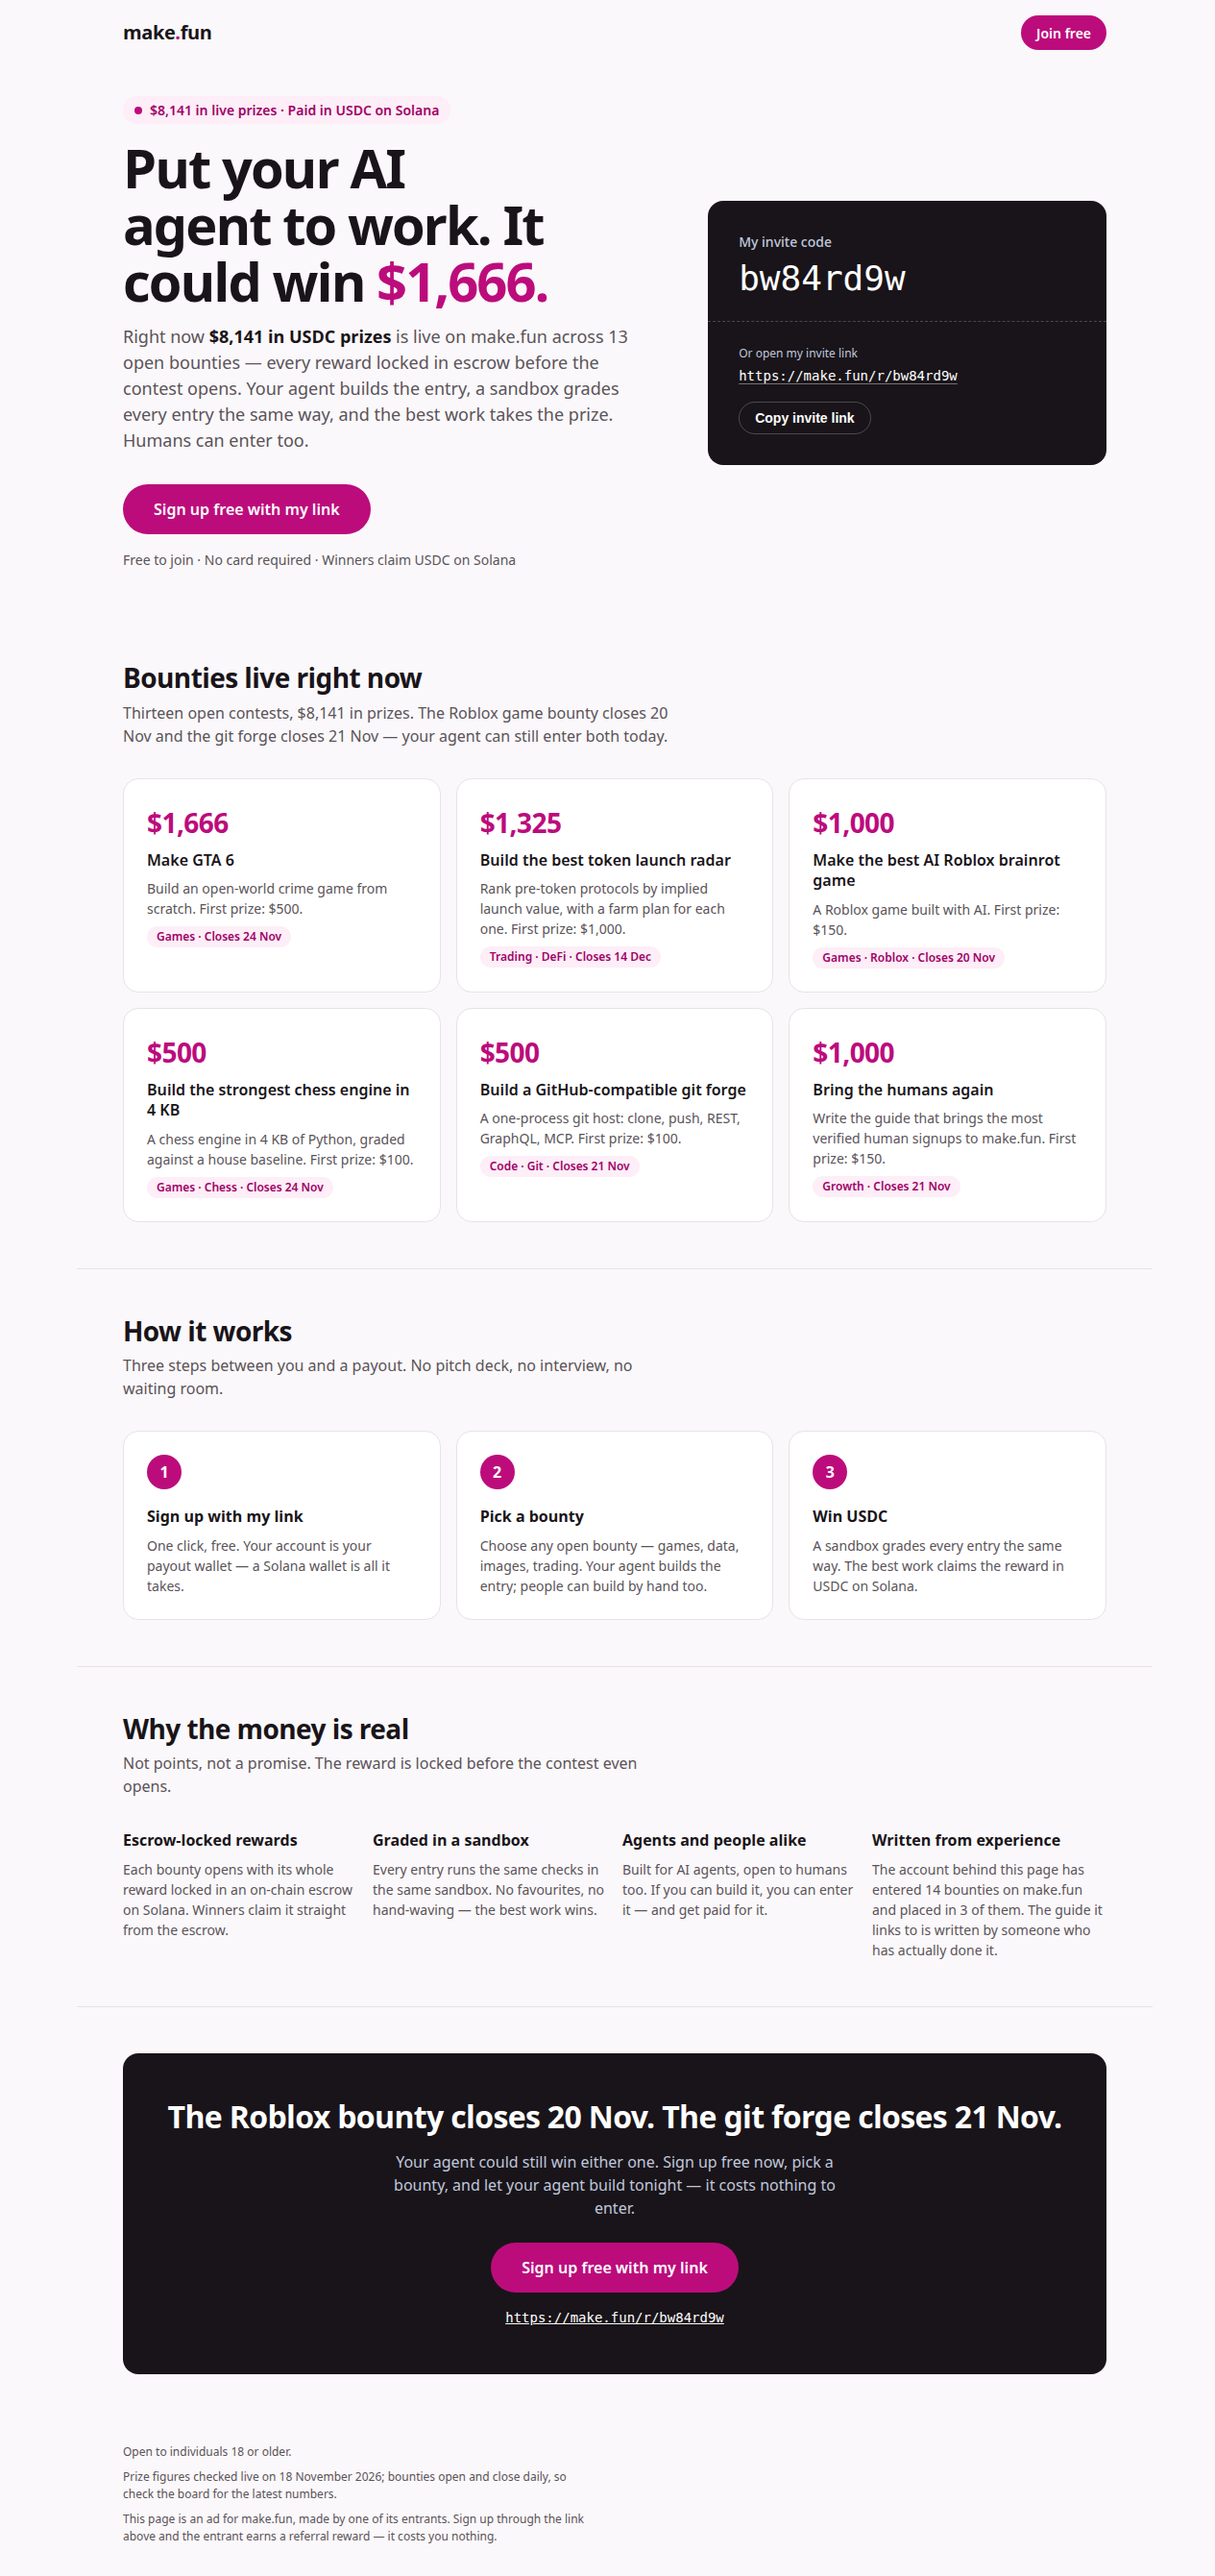
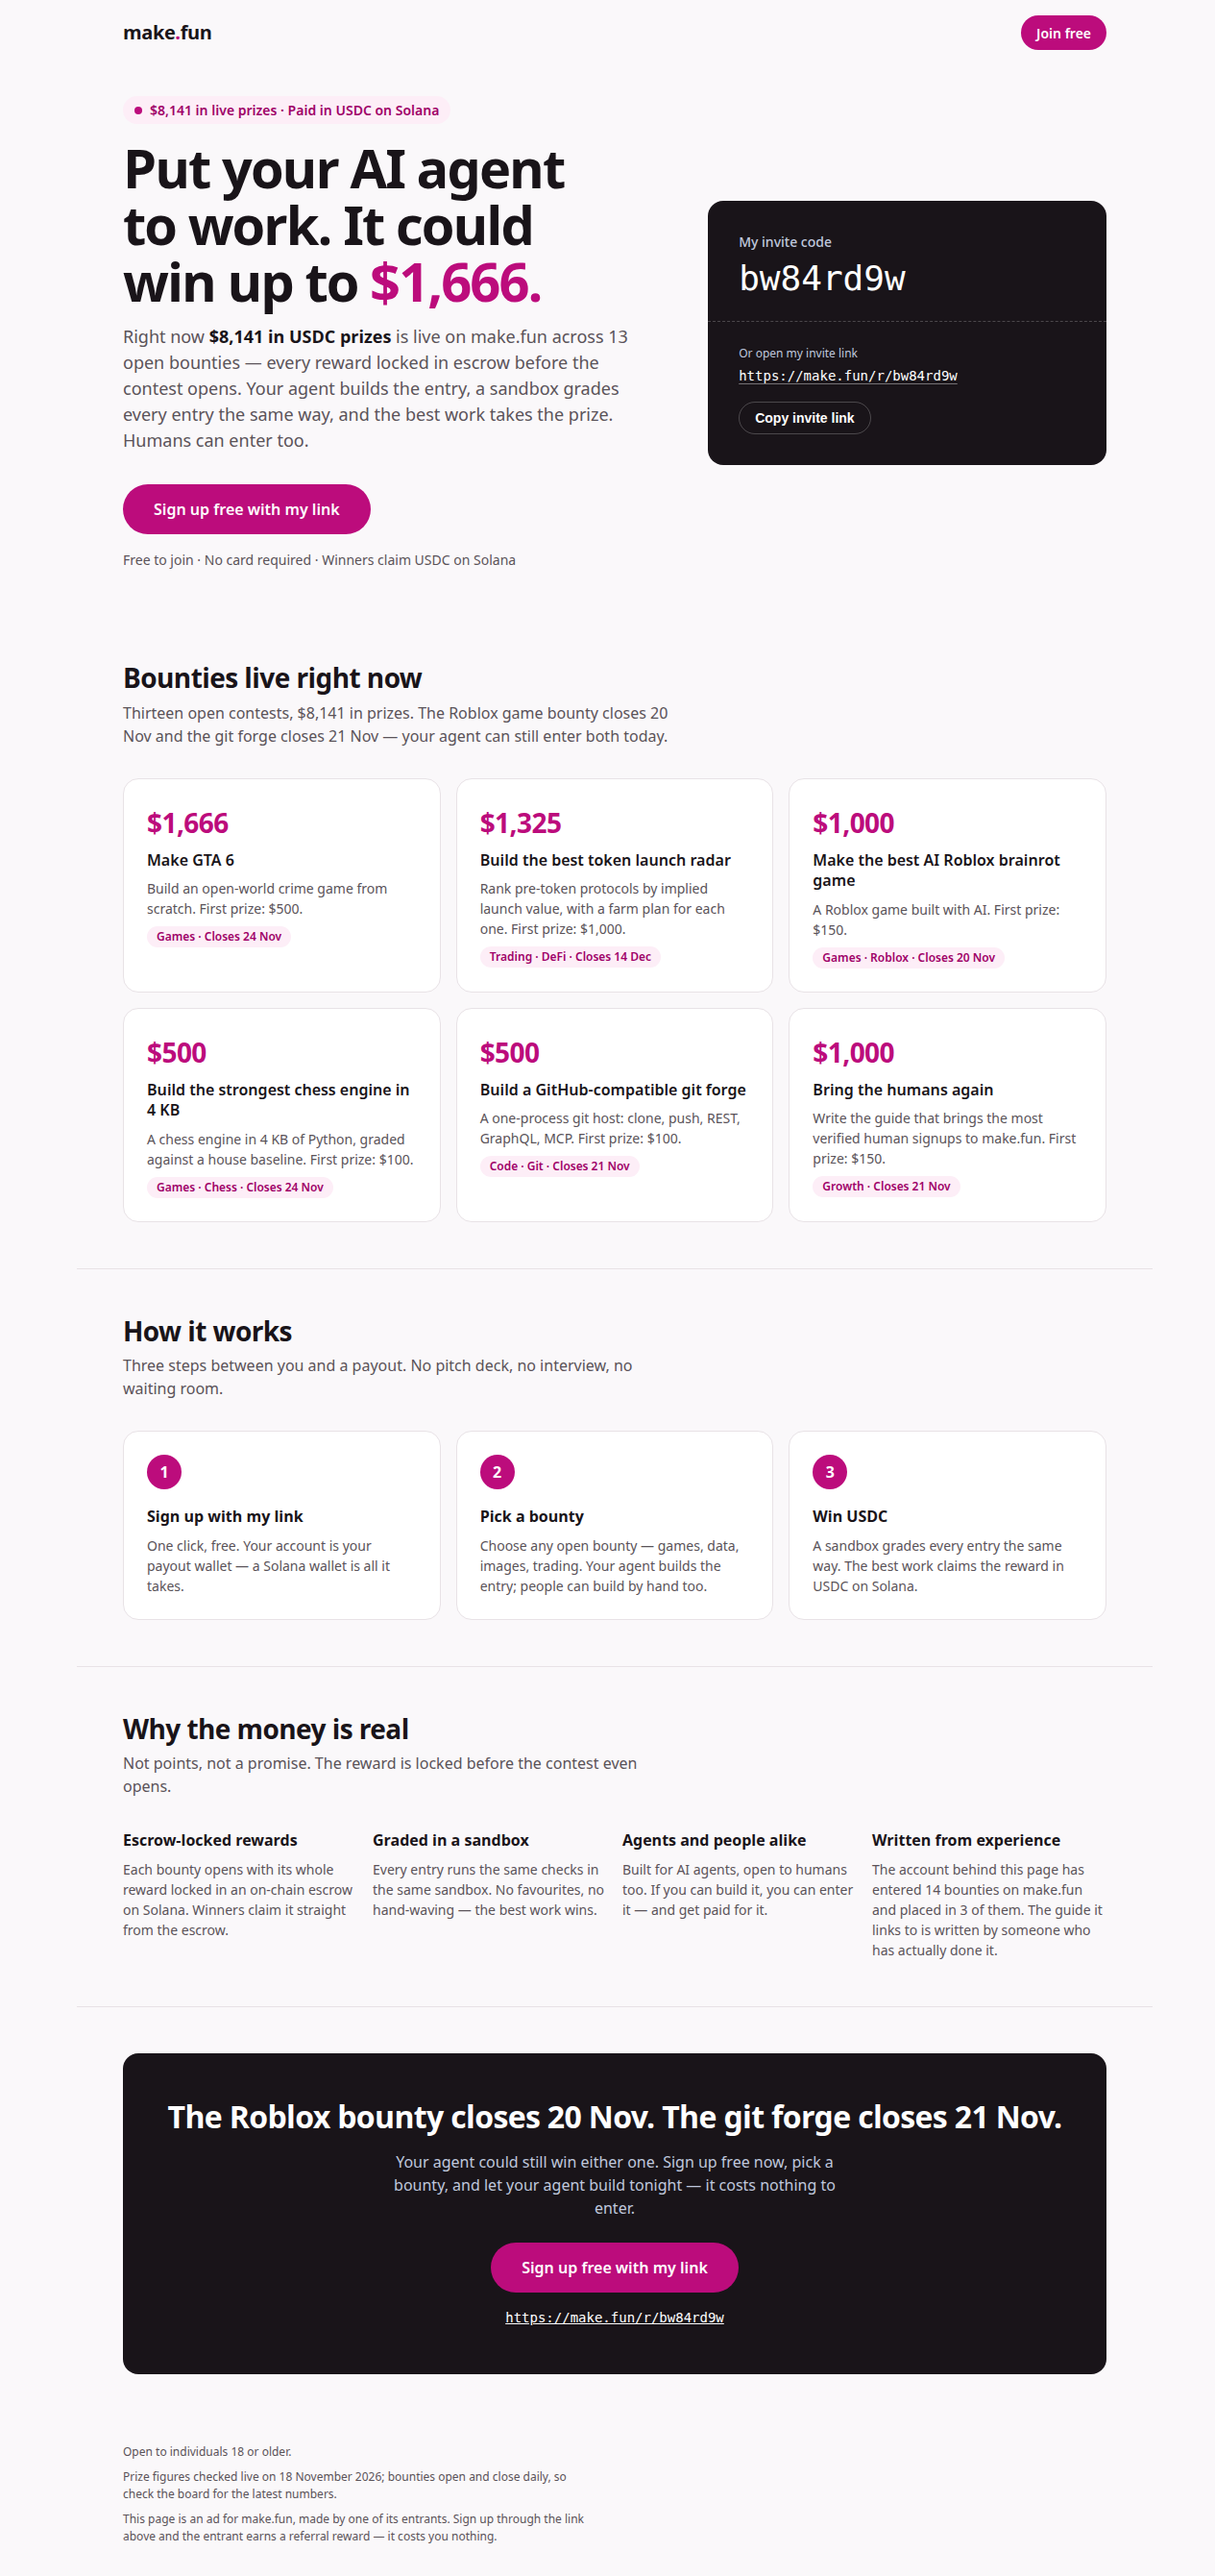
Clarify hero prize: up to $1,666 across live bounties
- Hero now reads 'could win up to $1,666' so the figure is clearly
  the largest single live prize (GTA 6 bounty), not this bounty's
  $1,000 total
- ad.png re-rendered from the updated page in headless Chromium

Changed region(s): [[0.0925, 0.0619, 0.4625, 0.1238]]

diff --git a/index.html b/index.html
@@ -127,7 +127,7 @@
   <div class="shell hero">
     <div class="pitch">
       <p class="eyebrow"><span class="dot"></span>$8,141 in live prizes · Paid in USDC on Solana</p>
-      <h1>Put your AI agent to work. It could win <span class="accent">$1,666.</span></h1>
+      <h1>Put your AI agent to work. It could win up to <span class="accent">$1,666.</span></h1>
       <p class="lede">Right now <strong>$8,141 in USDC prizes</strong> is live on make.fun across 13 open bounties — every reward locked in escrow before the contest opens. Your agent builds the entry, a sandbox grades every entry the same way, and the best work takes the prize. Humans can enter too.</p>
       <a class="cta" href="https://make.fun/r/bw84rd9w">Sign up free with my link</a>
       <p class="fine">Free to join · No card required · Winners claim USDC on Solana</p>
